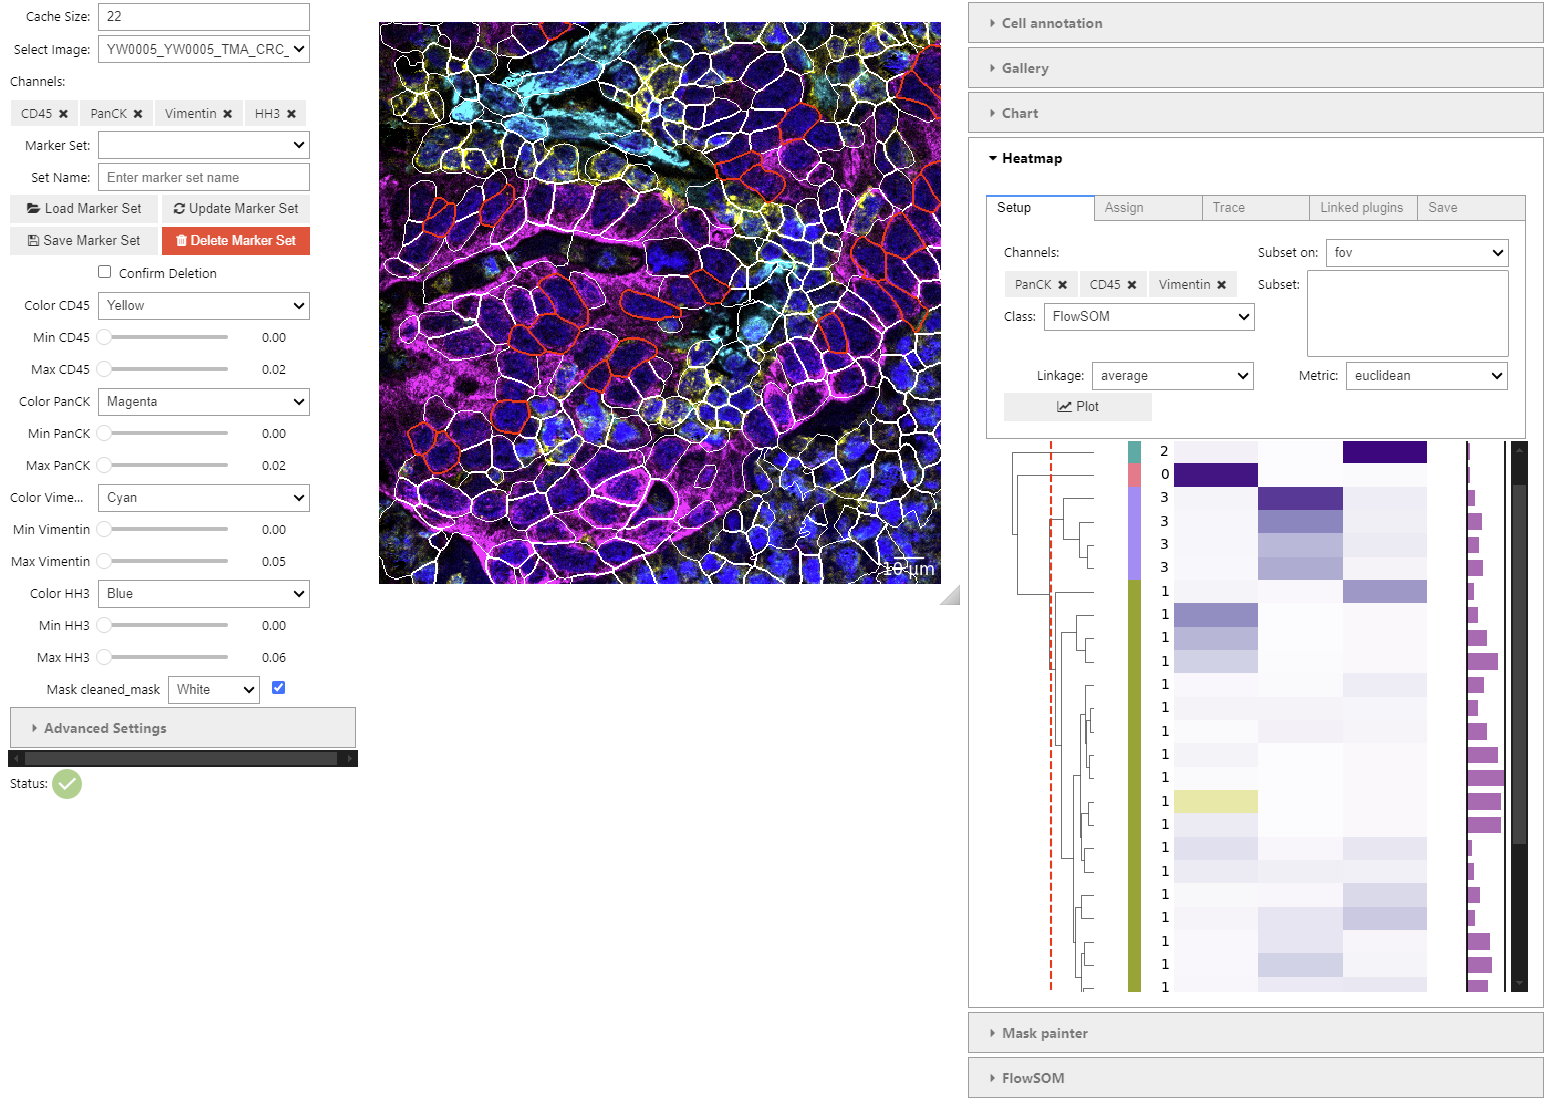
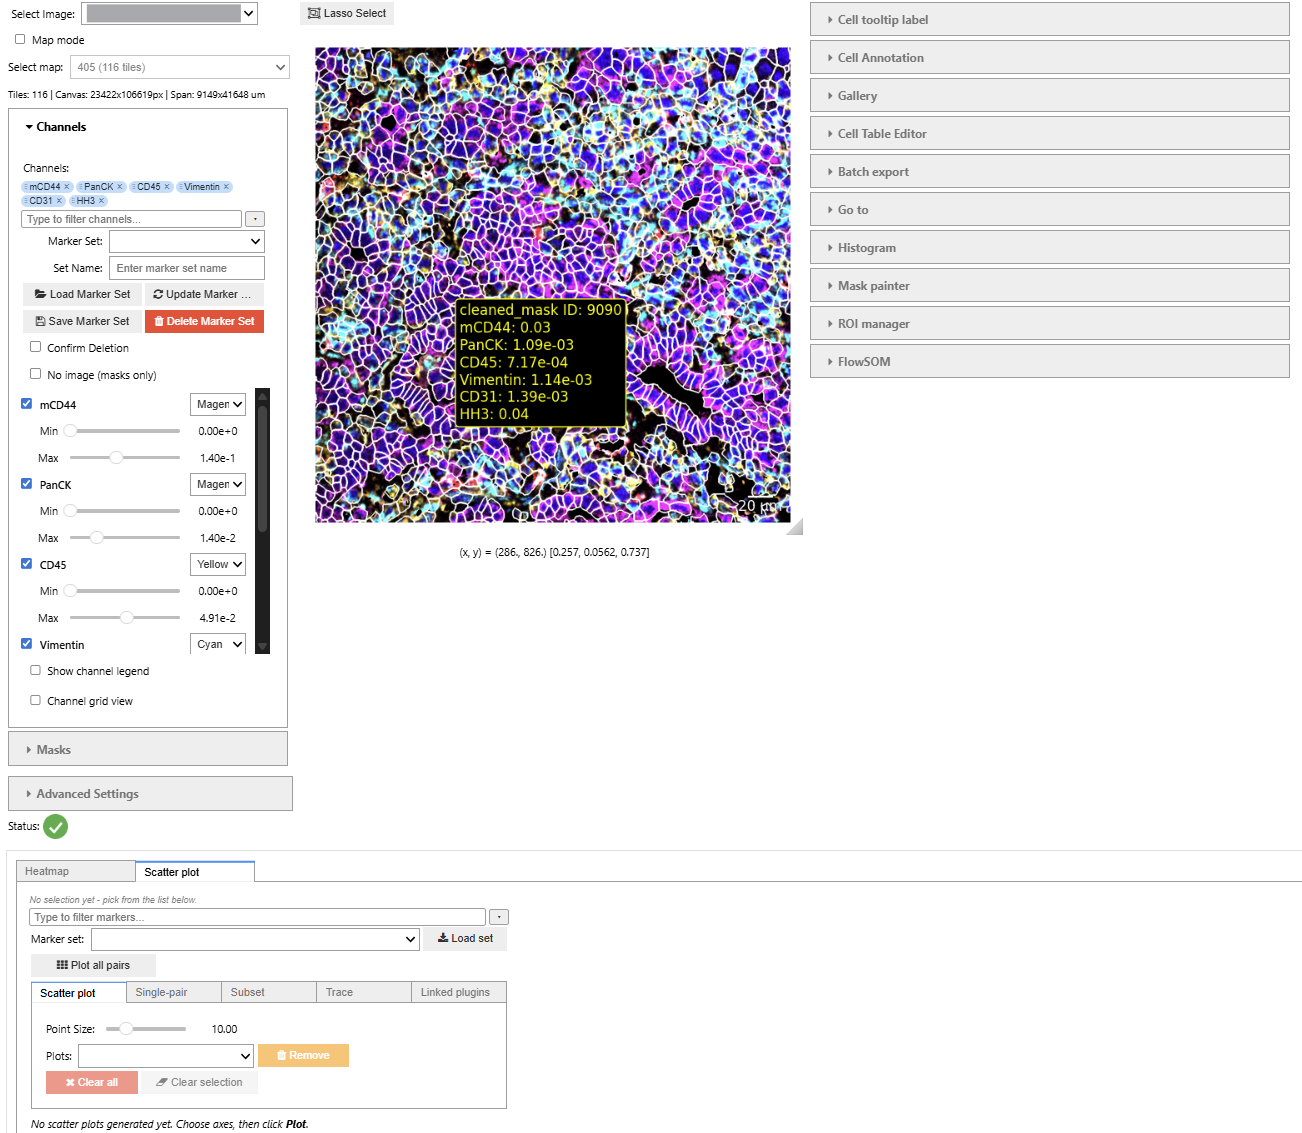
update documentations

diff --git a/README.md b/README.md
@@ -9,7 +9,7 @@ You can try UELer without installation by launching it on [Binder](https://mybin
 
 ### Option A — install with pip (recommended)
 
-**The install name is `ueler-viewer`; the import name is `ueler`.** PyPI administratively prohibits the name `ueler`, so the distribution ships as `ueler-viewer` — but nothing about using it changes, and `import ueler` stays exactly as it is. The same split as `scikit-image`/`skimage` and `opencv-python`/`cv2`.
+**The install name is `ueler-viewer`; the import name is `ueler`.**
 
 The **stable** release is on PyPI:
 
@@ -144,20 +144,7 @@ The GUI can be split into four main regions (wide plugins toggle the optional fo
 - right: plugin tools (Mask Painter, ROI Manager, palette editors, statistics panels)
 - bottom (optional): wide plugin tabs (e.g., horizontal heatmap or gallery extensions)
 
-### Overall Settings
-- **Cache Size**: Defines the number of images that can be loaded into memory at one time.  
-- **Select Image**: Choose an image to display in the main viewer.  
-- **Channel Selection**: Select the channels you want to display. You can select multiple channels by holding down the **Shift** key and clicking.  
-- **No image (masks only)**: When masks are available, enable this checkbox to skip rendering the image layer and show masks plus annotations on a black background. This also reduces image-compositing work when you only need spatial mask context.
-- **Marker Set**: Load a pre-defined marker set, which includes channels, colors, and color ranges.
-- **Control sections**: Channel, annotation, and mask controls now live in a collapsible accordion so you can jump straight to the section you need. When annotations are available, their controls appear ahead of masks, and each pane scrolls independently to keep the palette tools in reach even with dozens of channels.
-- **Annotations**: When `<base_folder>/annotations` contains rasters named `<fov>_<annotation>.tif(f)`, enable the overlay toggle to color pixels by class. Choose between mask outlines, annotation fills, or a combined view, adjust fill opacity, and launch the palette editor to customize class colors and display labels. Annotation names can include spaces (for example, `Simple Segmentation`)—they remain selectable and the **Edit palette…** button now activates as soon as such an entry loads.
-- **Masks**: Load segmentation rasters, edit per-class colours, and save or recall `.maskcolors.json` sets—default colours are tracked automatically, and optional `ipyfilechooser` dialogs speed up import/export.
-
-### Tools & Plugins
-- **Mask Painter**: Focus on edited classes, reuse colour sets, let inactive classes follow the global default fill mode, and restore saved per-class opacity, border, and filtered-list state without leaving the plugin.
-- **ROI Manager**: Capture, centre, and tag regions of interest with persistent storage in `<base_folder>/.UELer/roi_manager.csv`; combo-box tagging keeps new labels available for future sessions.
-- **Wide Plugins**: Enable "Horizontal layout" (for example, in the heatmap plugin) to undock the tool into the footer while keeping the accordion available for other controls.
+For more details, see the [user guide](https://hartmannlab.github.io/UELer/latest/tutorials/user-interface).
 
 ## New Update  
 ### **UELer v0.5.0-rc1 Summary**
@@ -165,10 +152,6 @@ The GUI can be split into four main regions (wide plugins toggle the optional fo
 - **Removed: the "Chart (heatmap)" plugin.** The footer used to carry a third tab called *Chart (heatmap)* alongside *Scatter plot* and *Heatmap*. It was a leftover copy of the Scatter plot panel that plotted the heatmap's cluster table instead of the cell table, and it offered nothing the other two do not — so it is gone, and the footer now holds just the plugins you actually use. The **Heatmap** plugin itself is unchanged, as are **Scatter plot** and **Histogram**. Nothing you had set up moves: if you find a `Chart (heatmap)_widget_states.json` file in a dataset's `.UELer` folder, it is a dead file and you can delete it.
 
 _Earlier changes (v0.5.0-alpha2 and before) are in the [update log](https://github.com/HartmannLab/UELer/blob/main/doc/log.md)._
-
-## Earlier Updates  
-
-You can find previous update logs [here](https://github.com/HartmannLab/UELer/blob/main/doc/log.md).
 
 ## License
 UELer is released under the **BSD 3-Clause License** — see
